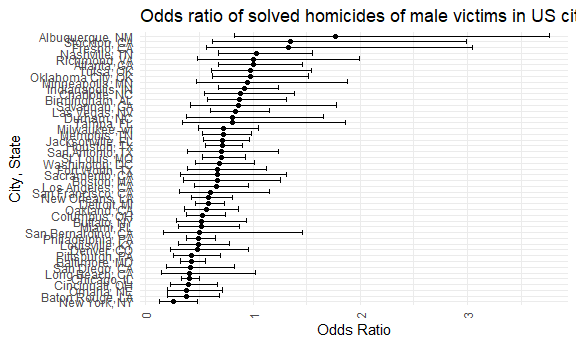
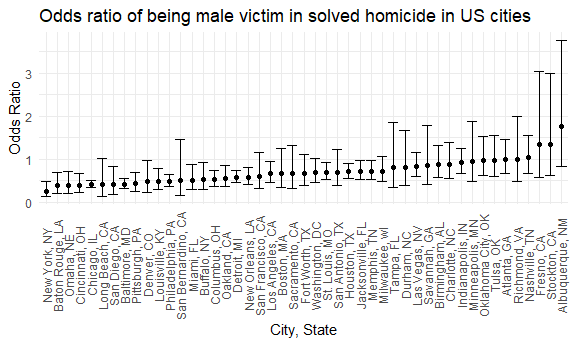
done with homework 6 i think

diff --git a/p8105_hw6_waa2119.md b/p8105_hw6_waa2119.md
@@ -55,18 +55,8 @@ homicide_data =
   filter(victim_sex %in% c("Male", "Female")) %>%
   
   mutate(victim_race = fct_relevel(victim_race, "White"))
-```
 
-    ## Rows: 52179 Columns: 12
-    ## ── Column specification ────────────────────────────────────────────────────────
-    ## Delimiter: ","
-    ## chr (9): uid, victim_last, victim_first, victim_race, victim_age, victim_sex...
-    ## dbl (3): reported_date, lat, lon
-    ## 
-    ## ℹ Use `spec()` to retrieve the full column specification for this data.
-    ## ℹ Specify the column types or set `show_col_types = FALSE` to quiet this message.
 
-``` r
 head(homicide_data, 20)
 ```
 
@@ -122,19 +112,22 @@ homicide_data %>%
   
   mutate(log_OR = log(estimate)) %>%
   
+  filter(term %in% "victim_sexMale") %>%
+  
   select(term, log_OR, OR, conf.low, conf.high, p.value)
 
 
 head(fit_logistic, 20)
 ```
 
-    ## # A tibble: 4 × 6
-    ##   term               log_OR    OR conf.low conf.high  p.value
-    ##   <chr>               <dbl> <dbl>    <dbl>     <dbl>    <dbl>
-    ## 1 (Intercept)       1.15    3.16     2.00      5.06  1.14e- 6
-    ## 2 victim_age       -0.00673 0.993    0.987     1.00  4.30e- 2
-    ## 3 victim_raceBlack -0.842   0.431    0.305     0.606 1.45e- 6
-    ## 4 victim_sexMale   -0.854   0.426    0.324     0.558 6.26e-10
+    ## # A tibble: 1 × 6
+    ##   term           log_OR    OR conf.low conf.high  p.value
+    ##   <chr>           <dbl> <dbl>    <dbl>     <dbl>    <dbl>
+    ## 1 victim_sexMale -0.854 0.426    0.324     0.558 6.26e-10
+
+The odds of being a male victim in a solved homicide in Baltimore is
+0.426 compared to female victims meaning it is more likely to be a
+female victim in a solved homicide in Baltimore.
 
 Now we will run the glm function for each of the cities in the dataset,
 and extract the adjusted odds ratio (and CI) for solving homicides
@@ -161,6 +154,7 @@ fit_all =
   filter(term %in% "victim_sexMale") %>%
   
   select(city_state, term, log_OR, OR, conf.low, conf.high, p.value)
+
 
 head(fit_all, 20)
 ```
@@ -193,36 +187,38 @@ Now we will create a plot that shows the estimated ORs and CIs for each
 city and organize cities according to estimated OR.
 
 ``` r
- ggplot(fit_all, aes(x = OR, y = reorder(city_state, OR))) + 
+ ggplot(fit_all, aes(x = reorder(city_state, OR), y = OR)) + 
     
   geom_point() + 
     
-  geom_errorbar(aes(xmin = conf.low, xmax = conf.high)) +   
+  geom_errorbar(aes(ymin = conf.low, ymax = conf.high)) +   
   
-  theme(axis.text.x = element_text(angle = 90, vjust = 0.5), legend.position = "none") + 
+  theme(axis.text.x = element_text(angle = 90, vjust = 0.5)) + 
   
   labs(
-    title = "Odds ratio of solved homicides of male victims in US cities", 
+    title = "Odds ratio of being male victim in solved homicide in US cities", 
     
-    y = "City, State", 
+    y = "Odds Ratio", 
     
-    x = "Odds Ratio"
+    x = "City, State"
   )
 ```
 
 <img src="p8105_hw6_waa2119_files/figure-gfm/unnamed-chunk-5-1.png" width="90%" />
 
-The odds of being male in a solved homicide in Albuquerque is 1.76 times
-more likely than being female and is the highest in the USA. The odds of
-being male in a solved homicide in New York City is 0.26 times more
-likely than being female and is the lowest in the USA. We see that in
-the majority of cities it is less likely to be a male victim in a solved
-homicide than being female as the majority of cities have an odds ratio
-that is less than 1 for being a male victim. Only 6 cities out of the 47
-in this data set had an odds ratio greater than 1 for being a male
-victim in a solved homicide. However there is significant dispersion in
-the data and the confidence intervals are fairly large so the odds ratio
-data must be interpreted with caution.
+The odds of being a male victim in a solved homicide in Albuquerque is
+1.77 times more likely than being a female victim and is the highest in
+the USA. The odds of being a male victim in a solved homicide in New
+York City is 0.26 times more likely than being a female victim and is
+the lowest in the USA, meaning it is more likely to be a female victim
+in a solved homicide in New York City. We see that in the majority of
+cities it is less likely to be a male victim in a solved homicide than
+being female as the majority of cities have an odds ratio that is less
+than 1 for being a male victim. Only 6 cities out of the 47 in this data
+set had an odds ratio greater than 1 for being a male victim in a solved
+homicide. However there is significant dispersion in the data and the
+confidence intervals are fairly large so the odds ratio data must be
+interpreted with caution.
 
 ## Problem 3
 
@@ -264,7 +260,8 @@ malformations can affect weight causing the baby to weigh less at birth,
 head circumference is directly linked to weight as the larger
 circumference leads to higher weight, and the longer a baby is the more
 they will weigh at birth. Additionally, premature gestational age
-results in a lower weight for the child at birth. All of these
+results in a lower weight for the child at birth. All of these factors
+should play a role in determining the baby’s weight at birth.
 
 ``` r
 birth_model = 
@@ -302,7 +299,8 @@ birth_model =
   
   geom_smooth(se = FALSE, method = "lm") + 
   
-  labs(title = "Residuals vs Fitted values for my model", 
+  labs(title = "Residuals vs Fitted values for my birth weight model", 
+       
        x = "Fitted Values", 
        
        y = "Residuals")
@@ -311,6 +309,11 @@ birth_model =
     ## `geom_smooth()` using formula 'y ~ x'
 
 <img src="p8105_hw6_waa2119_files/figure-gfm/unnamed-chunk-7-1.png" width="90%" />
+
+From the model results table we can see that all the terms are
+significant in predicting a baby’s birth weight except for the presence
+of malformations as the p-value for that term is 0.533 while the other
+terms are much smaller than 0.05.
 
 Looking at the residuals vs fitted values for the model I developed we
 see that the residual values bounce around the zero line which suggests
@@ -378,10 +381,15 @@ cv_compare %>%
 <img src="p8105_hw6_waa2119_files/figure-gfm/unnamed-chunk-8-1.png" width="90%" />
 
 We see there is higher error in the model that utilizes the baby’s
-length and gestational age as predictors for birth weight. The model I
-developed which has predictors of predictors being number of cigarettes
-smoked by the mother during pregnancy, the presence of malformations,
-the babys head circumference, the baby’s length, and the gestational
-age, and the model containing the baby’s head circumference, length, and
-sex have comparable RMSE values but there is more dispersion in the
-model I developed.
+length and gestational age as predictors for birth weight as well as
+greater outliers than the other two models. The model I developed which
+has predictors of predictors being number of cigarettes smoked by the
+mother during pregnancy, the presence of malformations, the baby’s head
+circumference, the baby’s length, and the gestational age, and the model
+containing the baby’s head circumference, length, and sex have
+comparable RMSE values and appear to be similar models in predicting
+birth weight of a baby. Since the length and gaweeks model has higher
+RMSE and more outliers it should be discarded as a potential model for
+birth weight. Additionally, to truly determine the best model for this
+data set it would be beneficial to explore other options besides linear
+regression modeling.
